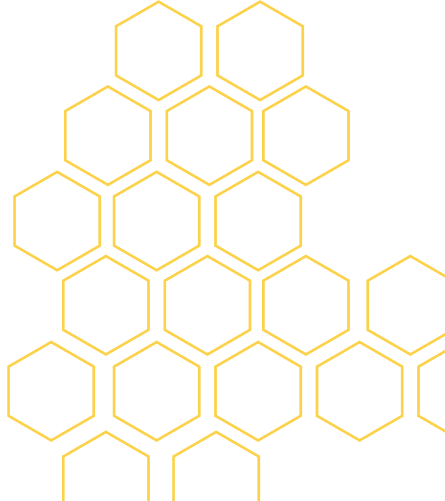
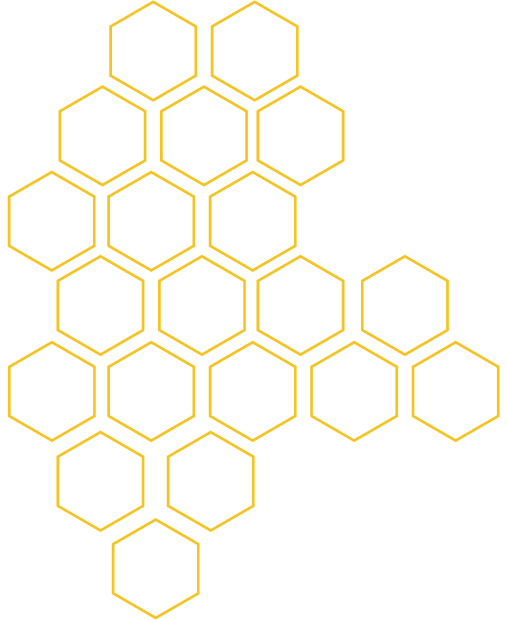
save

diff --git a/style.css b/style.css
@@ -1,19 +1,17 @@
 @import url("https://fonts.googleapis.com/css2?family=Bebas+Neue&display=swap");
 @import url("https://fonts.googleapis.com/css2?family=Bebas+Neue&family=Inter:ital,opsz,wght@0,14..32,100..900;1,14..32,100..900&display=swap");
 @import url("https://fonts.googleapis.com/css2?family=Geologica:wght@100..900&display=swap");
+
 @font-face {
   font-family: "Geometria";
   src: url("./assets/Geometria/geometria_medium.otf") format("opentype");
 }
+
 * {
   margin: 0;
   padding: 0;
   box-sizing: border-box;
-  font-family: "Inter", sans-serif;
-}
-
-body {
-  background-color: black;
+  font-family: "Geometria" sans-serif;
 }
 
 header {
@@ -38,8 +36,6 @@ header {
   padding: 10px 30px;
   border-radius: 10px;
   background-color: transparent;
-  border: 1px solid white;
-  color: white;
   text-transform: uppercase;
   transition: background-color 0.3s ease, color 0.3s ease,
     border-color 0.3s ease;
@@ -54,7 +50,6 @@ header {
 /* first block */
 
 .project-discussion {
-  color: white;
   display: flex;
   align-content: center;
   justify-content: center;
@@ -65,21 +60,23 @@ header {
 .project-info {
   width: 100%;
   display: flex;
-  justify-content: space-between;
+  justify-content: center;
 }
 
 .project-title {
-  font-family: "Bebas Neue", sans-serif;
-  font-size: 109.24px;
+  margin-top: 80px;
+  font-family: Geometria;
+  font-size: 64px;
   font-weight: 700;
-  line-height: 109.24px;
+  line-height: 80.51px;
   text-align: left;
-
-  width: 789.51px;
-  height: 218px;
+  width: 834.95px;
+  height: 162px;
+  text-transform: uppercase;
 }
 
 .project-description {
+  font-family: Inter;
   font-size: 28px;
   font-weight: 300;
   line-height: 33.89px;
@@ -94,9 +91,6 @@ header {
   position: relative;
   z-index: 100;
   bottom: 100px;
-  font-size: 18px;
-  font-weight: 500;
-  line-height: 21.78px;
   text-align: center;
   background-color: #f5c423;
   border: 1px solid #f5c423;
@@ -104,12 +98,16 @@ header {
   border-radius: 10px;
   transition: background-color 0.3s ease, color 0.3s ease,
     border-color 0.3s ease;
+  font-size: 16.74px;
+  font-weight: 500;
+  line-height: 20.26px;
+  text-transform: uppercase;
 }
 
 .discuss-button:hover {
   background-color: black;
   color: white;
-  border-color: white;
+  border-color: black;
 }
 
 /* second part */
@@ -130,7 +128,6 @@ header {
   font-weight: 700;
   line-height: 40.26px;
   text-align: left;
-  color: white;
   text-transform: uppercase;
 }
 
@@ -183,7 +180,6 @@ header {
   font-weight: 700;
   line-height: 42.77px;
   text-align: center;
-  color: #ffffff;
 
   text-transform: uppercase;
   margin: 140px 0 40px 0;
@@ -201,7 +197,6 @@ header {
   padding: 5px;
   /* padding-bottom: 10px; */
   border-radius: 10px;
-  border: 1px solid white;
   transition: background-color 0.5s ease;
 }
 
@@ -275,7 +270,6 @@ section {
 .name-role-box {
   display: flex;
   flex-direction: column;
-  background-color: white;
   width: 320px;
   gap: 10px;
   height: 96.12px;
@@ -352,15 +346,9 @@ section {
   width: 826.48px;
   height: 60px;
   border-radius: 10px;
-  border: 1px solid white;
   padding: 20px;
   background-color: black;
-  color: white;
   font-size: 18px;
-}
-
-.form-input::placeholder {
-  color: white;
 }
 
 .submit-button {
@@ -398,7 +386,6 @@ section {
   flex-direction: column;
   gap: 15px;
   border-radius: 10px;
-  background-color: #ffffff;
   padding: 20px;
   width: 320px;
   transition: background-color 0.2s ease;
@@ -507,7 +494,6 @@ footer {
 #mobile {
   width: 100vw;
   height: 100vh;
-  background: white;
   position: absolute;
   z-index: 1000;
   top: 0;

diff --git a/index.html b/index.html
@@ -55,12 +55,15 @@
         <div class="project-info">
           <img
             class="project-image"
-            src="./assets/images/honeycomb.png"
+            src="./assets/images/light-honeycomb.png"
             alt="honeycomb"
           />
 
           <div class="text-content">
-            <h2 class="project-title">big bee - бизнес платформа</h2>
+            <h2 class="project-title">
+              <span style="color: #f5c423"> big bee - </span>
+              бизнес платформа
+            </h2>
 
             <p class="project-description">
               Big Bee — бизнес-платформы, которая помогает компаниям переходить
